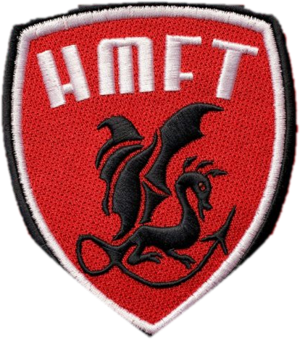
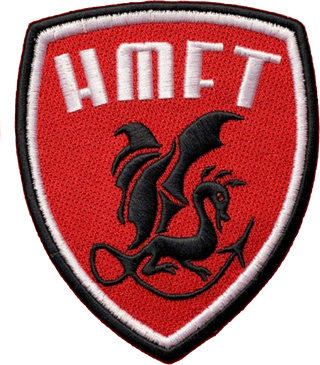
Écran de mise à jour : écusson texturé détouré proprement (logo_ok_texture)

diff --git a/index.html b/index.html
@@ -3291,7 +3291,7 @@ html.light #panel-vignettes .vg-subtab[aria-selected="true"] { background: rgba(
   #upd-full { position: fixed; inset: 0; z-index: 10050; display: flex; flex-direction: column; align-items: center; justify-content: center; text-align: center; padding: calc(28px + env(safe-area-inset-top, 0px)) max(26px, env(safe-area-inset-right, 0px)) calc(28px + env(safe-area-inset-bottom, 0px)) max(26px, env(safe-area-inset-left, 0px)); background: radial-gradient(110% 60% at 50% 32%, #5a0000, #0b0b0d 72%); color: #fff; overflow-y: auto; opacity: 0; transition: opacity .3s; color-scheme: dark; }
   #upd-full.on { opacity: 1; }
   #upd-full > * { width: 100%; max-width: 340px; }
-  #upd-full .uf-patch { width: 140px; height: 158px; background: url(icons/ecusson.png) center/contain no-repeat; filter: drop-shadow(0 18px 30px rgba(0,0,0,.6)); margin-bottom: 20px; transform: translateY(18px) scale(.85); opacity: 0; transition: transform .55s cubic-bezier(.2,1.4,.4,1), opacity .3s; }
+  #upd-full .uf-patch { width: 140px; height: 158px; background: url(icons/ecusson.png?v=2) center/contain no-repeat; filter: drop-shadow(0 18px 30px rgba(0,0,0,.6)); margin-bottom: 20px; transform: translateY(18px) scale(.85); opacity: 0; transition: transform .55s cubic-bezier(.2,1.4,.4,1), opacity .3s; }
   #upd-full .uf-up { transform: translateY(24px); opacity: 0; transition: transform .45s .15s cubic-bezier(.2,.9,.3,1), opacity .35s .15s; }
   #upd-full.on .uf-patch, #upd-full.on .uf-up { transform: none; opacity: 1; }
   #upd-full .uf-k { font-size: 11px; font-weight: 800; letter-spacing: .12em; text-transform: uppercase; color: #ff7b70; }
@@ -4565,7 +4565,7 @@ html.light #panel-vignettes .vg-subtab[aria-selected="true"] { background: rgba(
 </div>
 
 <template id="hm-news" data-date="24/11/2026"><li>👥 <b>Membres</b> : nouvelles icônes, qui est en ligne, notifications activées</li><li>🎽 <b>Vignettes</b> : nouvelle photo pour la carte Kit Vintage</li><li>👤 <b>Création de compte</b> plus fiable quand l'appli démarre lentement</li></template>
-<footer>Divodurum &mdash; <button class="footer-link-btn" id="footer-reglement-btn" style="display:none">Règlement 26/27</button> &mdash; <button class="footer-link-btn" id="footer-coef-btn" style="display:none">Coefficient joueurs</button><span id="footer-pronos-wrap" style="display:none"> &mdash; <button class="footer-link-btn" id="footer-pronos-btn">Pronos : désactivés</button></span> &mdash; 24/11/2026 - 09:27</footer>
+<footer>Divodurum &mdash; <button class="footer-link-btn" id="footer-reglement-btn" style="display:none">Règlement 26/27</button> &mdash; <button class="footer-link-btn" id="footer-coef-btn" style="display:none">Coefficient joueurs</button><span id="footer-pronos-wrap" style="display:none"> &mdash; <button class="footer-link-btn" id="footer-pronos-btn">Pronos : désactivés</button></span> &mdash; 24/11/2026 - 09:46</footer>
 
 <script>
 
